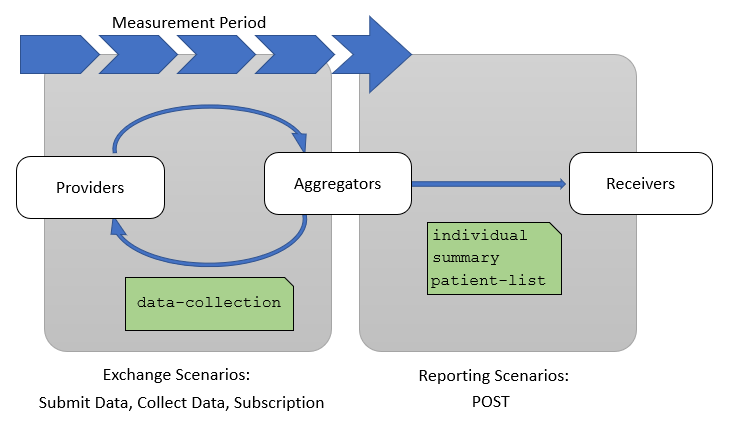
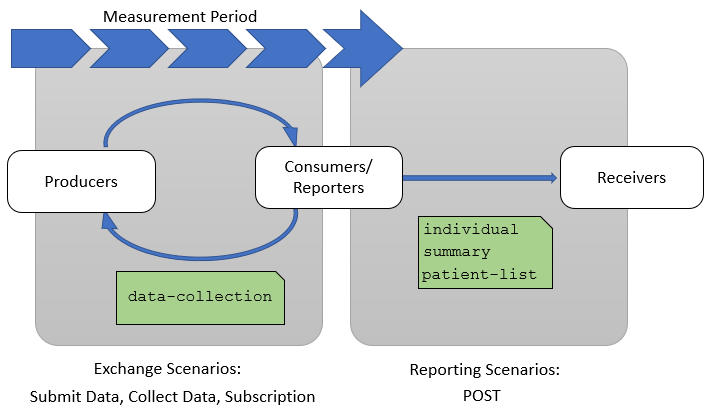
Updating homepage content

diff --git a/pages/index.html b/pages/index.html
@@ -19,60 +19,6 @@ layout: default
 
 <h3>Background</h3>
 
-<p>Clinical quality measures (CQMs) are tools that help measure and track the quality of health care services that eligible clinicians (ECs), eligible hospitals (EHs), and critical access hospitals (CAHs) provide. Measuring and reporting CQMs helps to ensure that our health care system is delivering effective, safe, efficient, patient-centered, equitable, and timely care. CQMs measure many aspects of patient care, including:[^1]</p>
-
-<ul>
-  <li>Patient and Family Engagement</li>
-  <li>Patient Safety</li>
-  <li>Care Coordination</li>
-  <li>Public Health</li>
-  <li>Population Health Management</li>
-  <li>Efficient Use of Healthcare Resources</li>
-  <li>Clinical Process/Effectiveness</li>
-</ul>
-
-<p>Before Electronic Health Record (EHR) systems, chart-abstracted CQMs were predominant. Modern EHR systems enable electronic CQMs, or eCQMs.</p>
-
-<h4>Who are all the players in the Quality space?[^2]</h4>
-
-<ul>
-  <li>Policy Directors on Quality<br/>
-    <ul><li>National Priorities Partnership, National Quality Strategy, Centers for Medicare &amp; Medicaid Services (CMS), Office of the National Coordinator for Health Information Technology (ONC)</li></ul>
-  </li>
-  <li>Measure Requesters<br/>
-    <ul>
-      <li>External demands of quality measures for accountability (CMS, National Committee for Quality Assurance [NCQA], PCPI, The Joint Commission)</li>
-      <li>Internal demands for quality measures for improvement (quality improvement programs)</li>
-    </ul>
-  </li>
-  <li>Measure Developers (organizations that define clinical quality measures)<br/>
-    <ul>
-      <li>Measurement Development Partnership, NCQA, The Joint Commission, and others</li>
-    </ul>
-  </li>
-  <li>Standards Developers<br/>
-    <ul>
-      <li>HL7, Integrating the Healthcare Enterprise (IHE), International Health Terminology Standards Development Organisation (IHTSDO), and others</li>
-    </ul>
-  </li>
-  <li>Electronic Health Record (EHR)/Tool Developers<br/>
-    <ul>
-      <li>EHR vendors, quality reporting tool developers</li>
-    </ul>
-  </li>
-  <li>Measure Reporters and Users<br/>
-    <ul>
-      <li>Aggregators (organizations that collect measure data): Health Plans, Public Programs, and others</li>
-      <li>Providers: Healthcare organizations</li>
-    </ul>
-  </li>
-  <li>Public Health
-    <ul>
-      <li>Pan American Health Organization (PAHO), World Health Organization (WHO), National Institutes of Health (NIH), American Medical Association (AMA)
-    </ul>
-  </li>
-</ul>
-
 <h4>Quality Improvement Ecosystem</h4>
 
 <img src="assets/images/quality-improvement-ecosystem.png" alt="Quality Improvement Ecosystem"/>
@@ -89,11 +35,13 @@ layout: default
 
 <p>The left side of the quality measurement standards landscape diagram depicts the activities and standards associated with measure specification, while the right side depicts measure reporting.</p>
   
-<p><b>Measure specification</b> involves the end product of the measure development process, a precisely specified, valid, reliable, and clinically significant measure specification to support accurate data representation and capture of quality measures.</p>
+<p><b>Measure specification</b> involves the end product of the measure development process, a precisely specified, valid, reliable, and clinically significant measure specification to support accurate data representation and capture of quality measures. Clinical quality measures (CQMs) are tools that help measure and track the quality of health care services that eligible clinicians (ECs), eligible hospitals (EHs), and critical access hospitals (CAHs) provide. Measuring and reporting CQMs helps to ensure that our health care system is delivering effective, safe, efficient, patient-centered, equitable, and timely care. CQMs measure many aspects of patient care, including patient and family engagement, patient safety, care coordination, public health, population health mangagement, efficient use of healthcare resources, and clinical process and effectiveness.[^1] Before Electronic Health Record (EHR) systems, chart-abstracted CQMs were predominant. Modern EHR systems enable electronic CQMs, or eCQMs.</p>
 
 <p><b>Measure reporting</b> involves the data collection and aggregation, calculation and analytics, and ultimately reporting of quality measures.</p>
 
-<p><b>Producers</b> in the diagram represent the various stakeholders involved in the creation of healthcare data. Producers can include providers and provider systems; patients, care teams, caregivers, and patient engagement systems; and other related clinical systems such as laboratory, clinic, and hospital information systems that are primary producers of patient healthcare information.</p>
+<p>Stakeholders in the quality space, represented by the three rounded rectangles in the foreground of the above diagram, fall into three broad categories:</p>
+
+<p><b>Producers</b> in the diagram represent the various stakeholders involved in the de novo creation of healthcare data. Producers can include providers and provider systems; patients, care teams, caregivers, and patient engagement systems; and other related clinical systems such as laboratory, clinic, and hospital information systems that are primary producers of patient healthcare information.</p>
 
 <p><b>Consumers</b> in the diagram represent the various stakeholders involved in the consumption and use of healthcare data. Consumers can include data routers and aggregators, payers, health information exchanges and health integrated networks, as well as public health and other healthcare-related agencies.</p>
 
